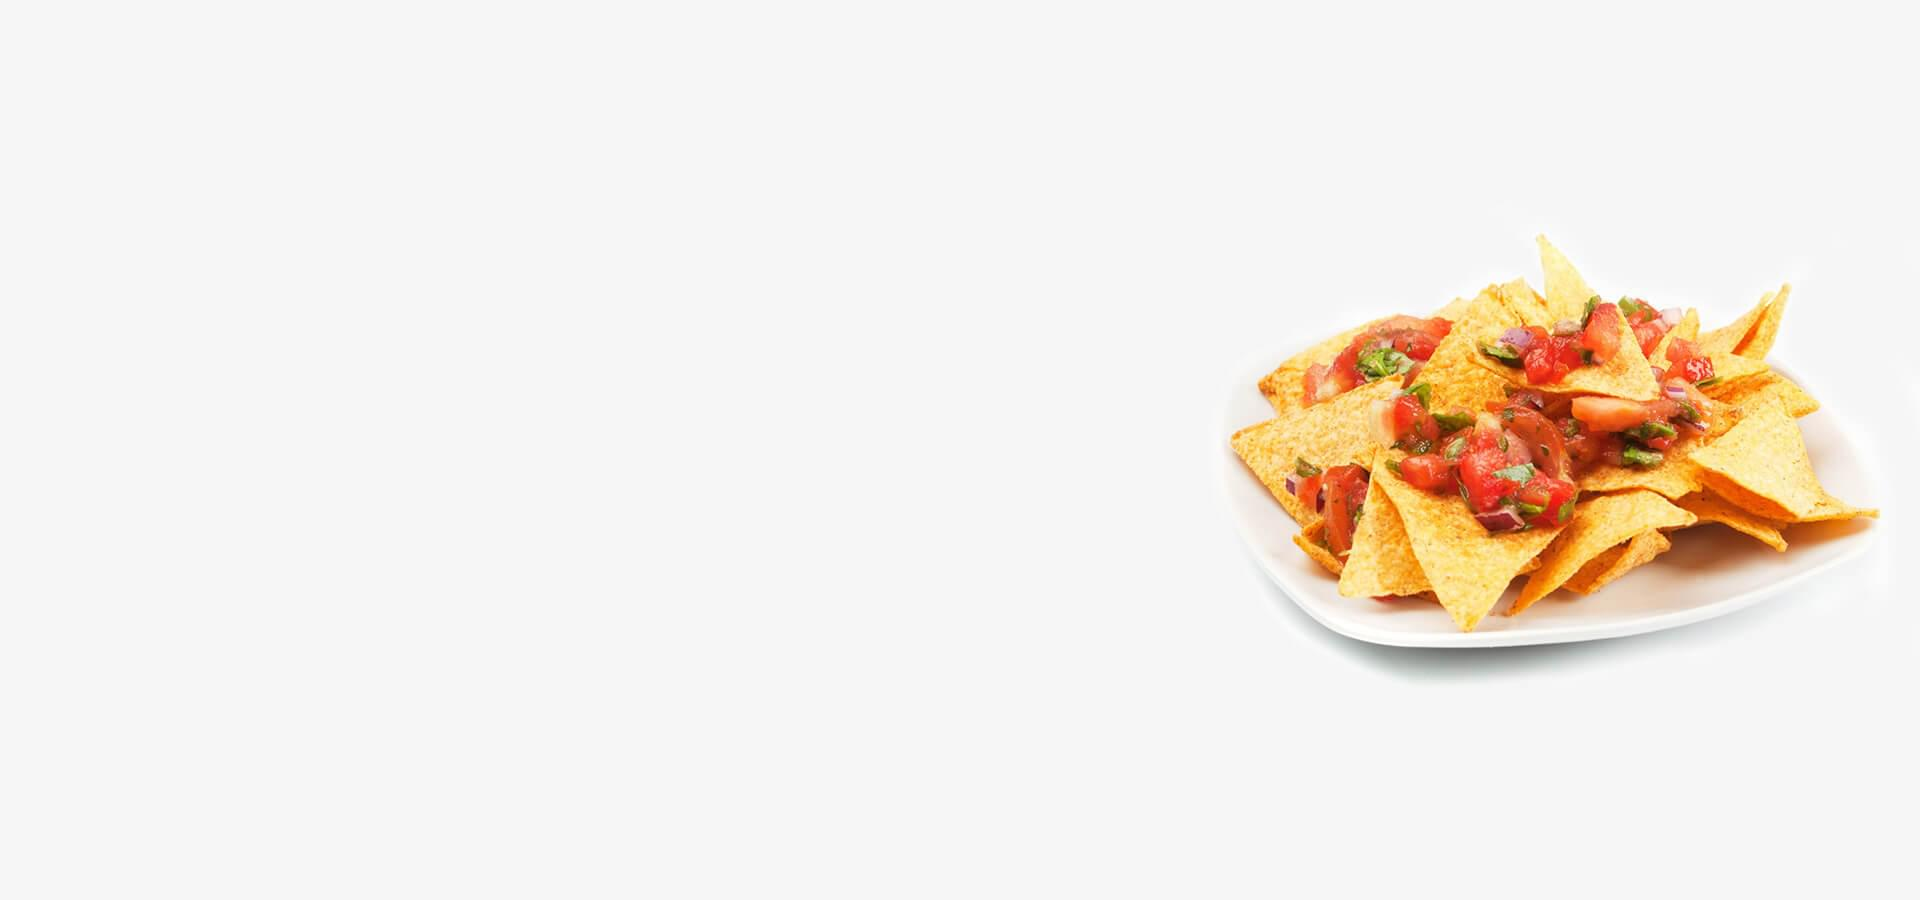
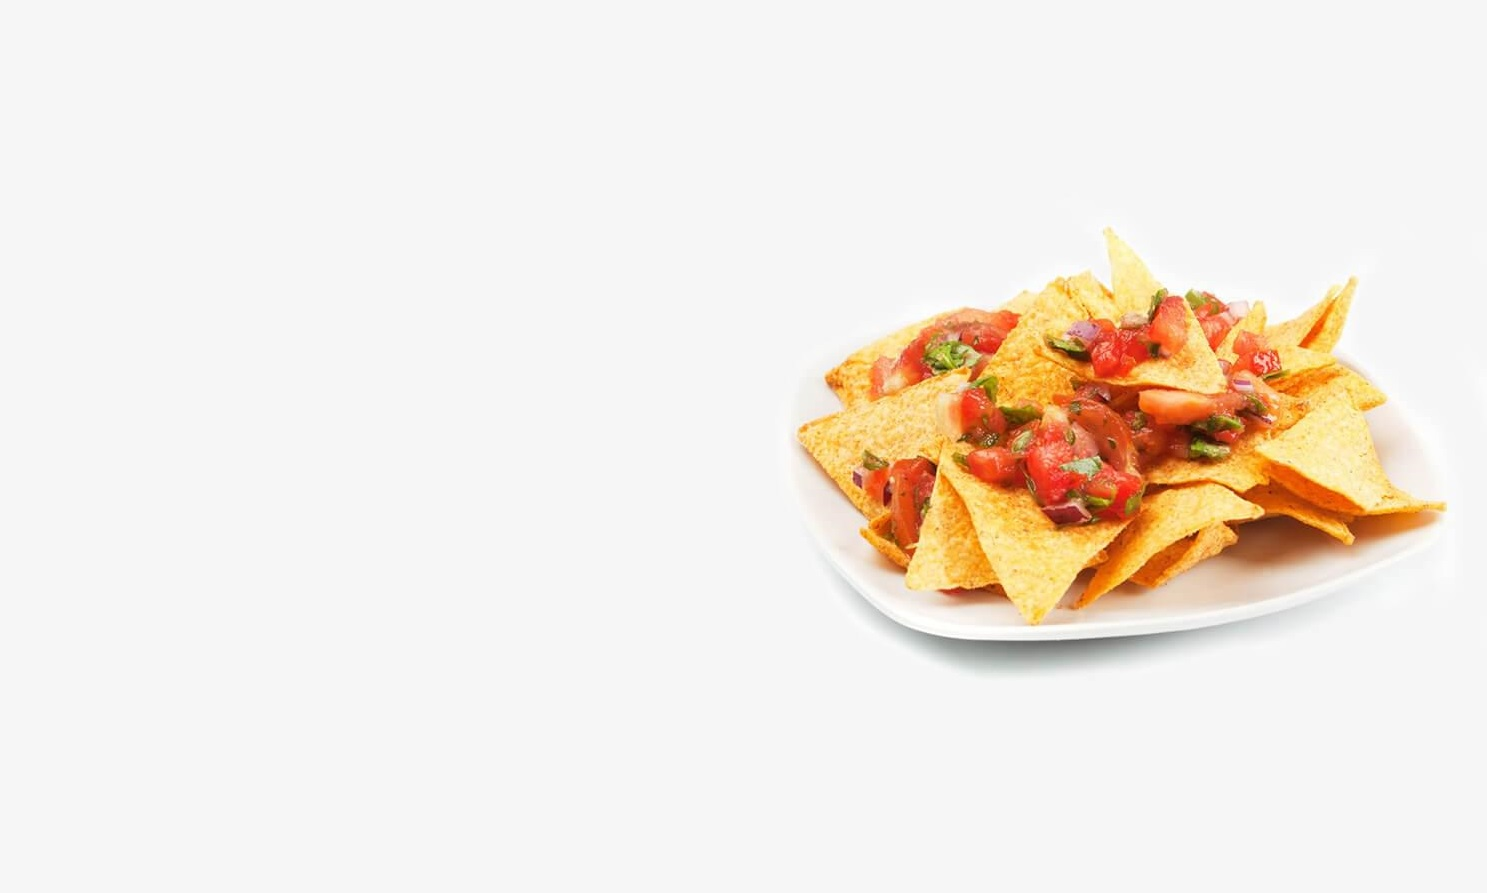
carousal Added , contact us added

Changed region(s): [[0.5259, 0.2419, 0.9899, 0.7559]]

diff --git a/index.html b/index.html
@@ -13,54 +13,93 @@
 <body>
   <header>
     <!-- Navbar  -->
-    <nav class="navbar fixed-top navbar-expand-lg navbar-light p-md-3">
-      <div class="container">
-        <a class="navbar-brand" href="index.html"><img src="img/logo/logo.png" alt=""></a>
-          <button
-              class="navbar-toggler"
-              type="button"
-              data-bs-toggle="collapse"
-              data-bs-target="#navbarNav"
-              aria-controls="navbarNav"
-              aria-expanded="false"
-              aria-label="Toggle navigation"
-              >
-              <span class="navbar-toggler-icon"></span>
-          </button>
-
-        <div class="collapse navbar-collapse" id="navbarNav">
-          <div class="mx-auto"></div>
-          <ul class="navbar-nav fw-bolder bg-light ">
-            <li class="nav-item">
-              <a class="nav-link text-dark" href="#">Home</a>
-            </li>
-            <li class="nav-item">
-              <a class="nav-link text-dark" href="#about">About</a>
-            </li>
-            <li class="nav-item">
-              <a class="nav-link text-dark" href="#menu">Menu</a>
-            </li>
-            <li class="nav-item">
-              <a class="nav-link text-dark" href="#contact">Contact US</a>
-            </li>
-          </ul>
+    <div>
+      <nav class="navbar fixed-top navbar-expand-lg navbar-light p-md-3">
+        <div class="container">
+          <a class="navbar-brand" href="index.html"><img src="img/logo/logo.png" alt=""></a>
+            <button
+                class="navbar-toggler"
+                type="button"
+                data-bs-toggle="collapse"
+                data-bs-target="#navbarNav"
+                aria-controls="navbarNav"
+                aria-expanded="false"
+                aria-label="Toggle navigation"
+                >
+                <span class="navbar-toggler-icon"></span>
+            </button>
+  
+          <div class="collapse navbar-collapse" id="navbarNav">
+            <div class="mx-auto"></div>
+            <ul class="navbar-nav fw-bolder ">
+              <li class="nav-item">
+                <a class="nav-link text-dark" href="#">Home</a>
+              </li>
+              <li class="nav-item">
+                <a class="nav-link text-dark" href="#about">About</a>
+              </li>
+              <li class="nav-item">
+                <a class="nav-link text-dark" href="#menu">Menu</a>
+              </li>
+              <li class="nav-item">
+                <a class="nav-link text-dark" href="#contact-us">Contact US</a>
+              </li>
+            </ul>
+          </div>
         </div>
-      </div>
-    </nav>
+      </nav>
+    </div>
+    
     <!-- Navbar end -->
   </header>
     
     <!-- Banner Image -->
-    <div class="banner-image w-100 vh-100 d-flex justify-content-center align-items-center home">
+    <!-- <div class="banner-image w-100 vh-100 d-flex justify-content-center align-items-center home">
         <div class="content text-md-center text-sm-center text" >
             <h1 class="middle-text">Let Enjoy  </h1><br>
             <h1 class="middle-text">The Rhym of Foodie Dishes</h1>
 
         </div>
 
-    </div>
+    </div> -->
     <!-- Carousal start -->
-    
+    <div class="vw-100">
+      <div id="myCarousel" class="carousel slide" data-bs-ride="carousel">
+          <!-- Carousel indicators -->
+          <ol class="carousel-indicators">
+              <li data-bs-target="#myCarousel" data-bs-slide-to="0" class="active"></li>
+              <li data-bs-target="#myCarousel" data-bs-slide-to="1"></li>
+              <li data-bs-target="#myCarousel" data-bs-slide-to="2"></li>
+          </ol>
+          
+          <!-- Wrapper for carousel items -->
+          <div class="carousel-inner">
+              <div class="carousel-item active">
+                  <img src="img/slider/slider1-bg1.jpg"  class="d-block w-100" alt="Slide 1">
+                  <div class="carousel-caption d-none d-md-block">
+                    <h2 class="text-dark">
+                      Let Enjoy The Rhym Of Fooday Dishes
+                    </h2>
+
+                  </div>
+              </div>
+              <div class="carousel-item">
+                  <img src="img/slider/slider1-bg2.jpg" class="d-block w-100" alt="Slide 2">
+              </div>
+              <div class="carousel-item">
+                  <img src="img/slider/shop-slider2.jpg" class="d-block w-100" alt="Slide 3">
+              </div>
+          </div>
+  
+          <!-- Carousel controls -->
+          <a class="carousel-control-prev" href="#myCarousel" data-bs-slide="prev">
+              <span class="carousel-control-prev-icon"></span>
+          </a>
+          <a class="carousel-control-next" href="#myCarousel" data-bs-slide="next">
+              <span class="carousel-control-next-icon"></span>
+          </a>
+      </div>
+  </div>
     <!-- Carousal end -->
     <div class="page-content">
         <section class="about-session pt-5 pb-5 " id="about">
@@ -116,32 +155,50 @@
                 </div>
                 
               </div>
-              <div class="col-lg-4 col-md-6 col-sm12  ">
-                <img class="pro-img shadow-box" src="img/products/product-2a.jpg" alt="">
+              <div class="col-lg-4 col-md-6 col-sm12  product-item">
+                <img class="pro-img shadow-box " src="img/products/product-2a.jpg" alt="">
+                <h6 class="pt-1">Guilt-Free Karwari Prawns </h6>
+                <h6>₹120</h6>
               </div>
-              <div class="col-lg-4 col-md-6 col-sm12">
+              <div class="col-lg-4 col-md-6 col-sm12 product-item">
                 <img class="pro-img shadow-box" src="img/products/product-2b.jpg" alt="">
+                <h6 class="pt-1">Original Thickburger                </h6>
+                <h6>₹180</h6>
               </div>
-              <div class="col-lg-4 col-md-6 col-sm12">
+              <div class="col-lg-4 col-md-6 col-sm12 product-item">
                 <img class="pro-img shadow-box" src="img/products/product-2c.jpg" alt="">
+                <h6 class="pt-1">Filet-O-Fish Sandwich </h6>
+                <h6>₹130</h6>
               </div>
-              <div class="col-lg-4 col-md-6 col-sm12">
+              <div class="col-lg-4 col-md-6 col-sm12 product-item">
                 <img class="pro-img shadow-box" src="img/products/product-2d.jpg" alt="">
+                <h6 class="pt-1">Caesars Crazy Bread </h6>
+                <h6>₹450</h6>
               </div>
-              <div class="col-lg-4 col-md-6 col-sm12">
+              <div class="col-lg-4 col-md-6 col-sm12 product-item">
                 <img class="pro-img shadow-box" src="img/products/product-2e.jpg" alt="">
+                <h6 class="pt-1">Wisconsin Cheese Curds </h6>
+                <h6>₹620</h6>
               </div>
-              <div class="col-lg-4 col-md-6 col-sm12">
+              <div class="col-lg-4 col-md-6 col-sm12 product-item">
                 <img class="pro-img shadow-box" src="img/products/product-2f.jpg" alt="">
+                <h6 class="pt-1">Guys Fries </h6>
+                <h6>₹80</h6>
               </div>
-              <div class="col-lg-4 col-md-6 col-sm12">
+              <div class="col-lg-4 col-md-6 col-sm12 product-item">
                 <img class="pro-img shadow-box" src="img/products/product-2k.jpg" alt="">
+                <h6 class="pt-1">Baked Potato </h6>
+                <h6>₹45</h6>
               </div>
-              <div class="col-lg-4 col-md-6 col-sm12">
+              <div class="col-lg-4 col-md-6 col-sm12 product-item">
                 <img class="pro-img shadow-box" src="img/products/product-2l.jpg" alt="">
+                <h6 class="pt-1">Two-Piece Fish Meal</h6>
+                <h6>₹130</h6>
               </div>
-              <div class="col-lg-4 col-md-6 col-sm12">
+              <div class="col-lg-4 col-md-6 col-sm12 product-item">
                 <img class="pro-img shadow-box" src="img/products/product-2n.jpg" alt="">
+                <h6 class="pt-1">King Chicken Fries </h6>
+                <h6>₹126</h6>
               </div>
             </div>
           </div>
@@ -157,14 +214,27 @@
                     </span>
                     <div class="content ">
                       <h3>Master Chef</h3>
-                      <p class="chef-name"><h4>Sabu</h4>
-                      </p>
-                      <p class="des">
+                      <div class="row">
+                        
+                          <div class="col-md-6 col-sm-12">
+                            <span class="title pt-5">Sabu</span>
+                          </div>
+                          <div class="col-md-6 col-sm-12">
+                            <span > <a href="#"><i class="fa-brands fa-facebook"></i></a> </span>
+                            <span > <a href="#"><i class="fa-brands fa-twitter"></i></a> </span>
+                            <span > <a href="#"><i class="fa-brands fa-instagram"></i></a> </span>
+                            <span > <a href="#"><i class="fa-brands fa-youtube"></i></a> </span>
+                          </div>
+                       
+                        
+                      </div>
+                      <p class="des pt-5">
                         Sabu is an Emmy award-winning chef who owns three California restaurants and also licenses out his name and infamous “Flavortown” catchphrase to restaurants across the country. His name carries so much weight because of his two long-running TV Shows, Diners, Drive-Ins, and Dives and Guy’s Grocery Games. He even hosted the non-cooking tv game show Minute To Win It for two seasons because of his charismatic personality. This is why he’s not just one of the most famous chefs, but maybe the most famous chef on TV. 
 
                       </p>
                     </div>
                   </div>
+        
               </div>
               <div class="col-lg-6 col-md-7 col-sm-12 col-xs-12 pt-5 pb-5 ">
                   <img src="img/chef02.png" alt="" height="110%">
@@ -173,6 +243,14 @@
 
           </div>
         </section>
+        <section class="contact" id="contact-us">
+          <div class="bg-contact">
+            <div class="container">
+              Lorem ipsum dolor sit amet consectetur adipisicing elit. Exercitationem delectus assumenda dignissimos repellat doloremque, cum iure maxime dolorum tempore illo nesciunt fuga iusto nemo, natus neque praesentium voluptatibus consequatur. Inventore!
+            </div>
+          </div>
+
+        </section>
          
     </div>
 
@@ -180,6 +258,7 @@
     <!-- Bootstrap JS -->
     <script src="js/bootstrap.bundle.min.js"></script>
     <script src="js/custom.js"></script>
+    <script src="https://kit.fontawesome.com/6d34a4317c.js" crossorigin="anonymous"></script>
 
 </body>
     

diff --git a/css/style.css b/css/style.css
@@ -11,6 +11,10 @@ body{
     background-size:cover;
     background-repeat: no-repeat;
 }
+.bg-contact{
+    background-image: url("../img/bg-4.png");
+    background-size: cover;
+}
 .text{
     font-family: 'Bad Script', cursive;
     font-weight: 100;
@@ -20,10 +24,6 @@ body{
     animation-direction: alternate; */
     
 }
-/* .home{
-    width: 100vh;
-    height: 100vh;
-} */
 @media screen and (min-width: 600px){
     .about-session{
         background-image: url("../img/bg1.jpg");
@@ -50,11 +50,13 @@ body{
     font-size: 3em;
 }
 .shadow-box{
-    box-shadow: 5px 5px 5px rgb(250, 200, 63);
+    box-shadow: 5px 5px 5px rgb(228, 191, 81);
 }
-.pro-img { 
-    width: 90%;
-    height: 90%;
+.pro-img{
+    width: 75%; 
+    height: 75%;
+}
+.product-item { 
     top:-50px; 
     left:-35px; 
     display:block; 
@@ -65,8 +67,8 @@ body{
     -webkit-transition-timing-function: ease; 
     } 
      
-.pro-img:hover { 
-    transform: scale(1.1); 
+.product-item:hover { 
+    transform: scale(1.05); 
     
     }
     /* @keyframes ani{
